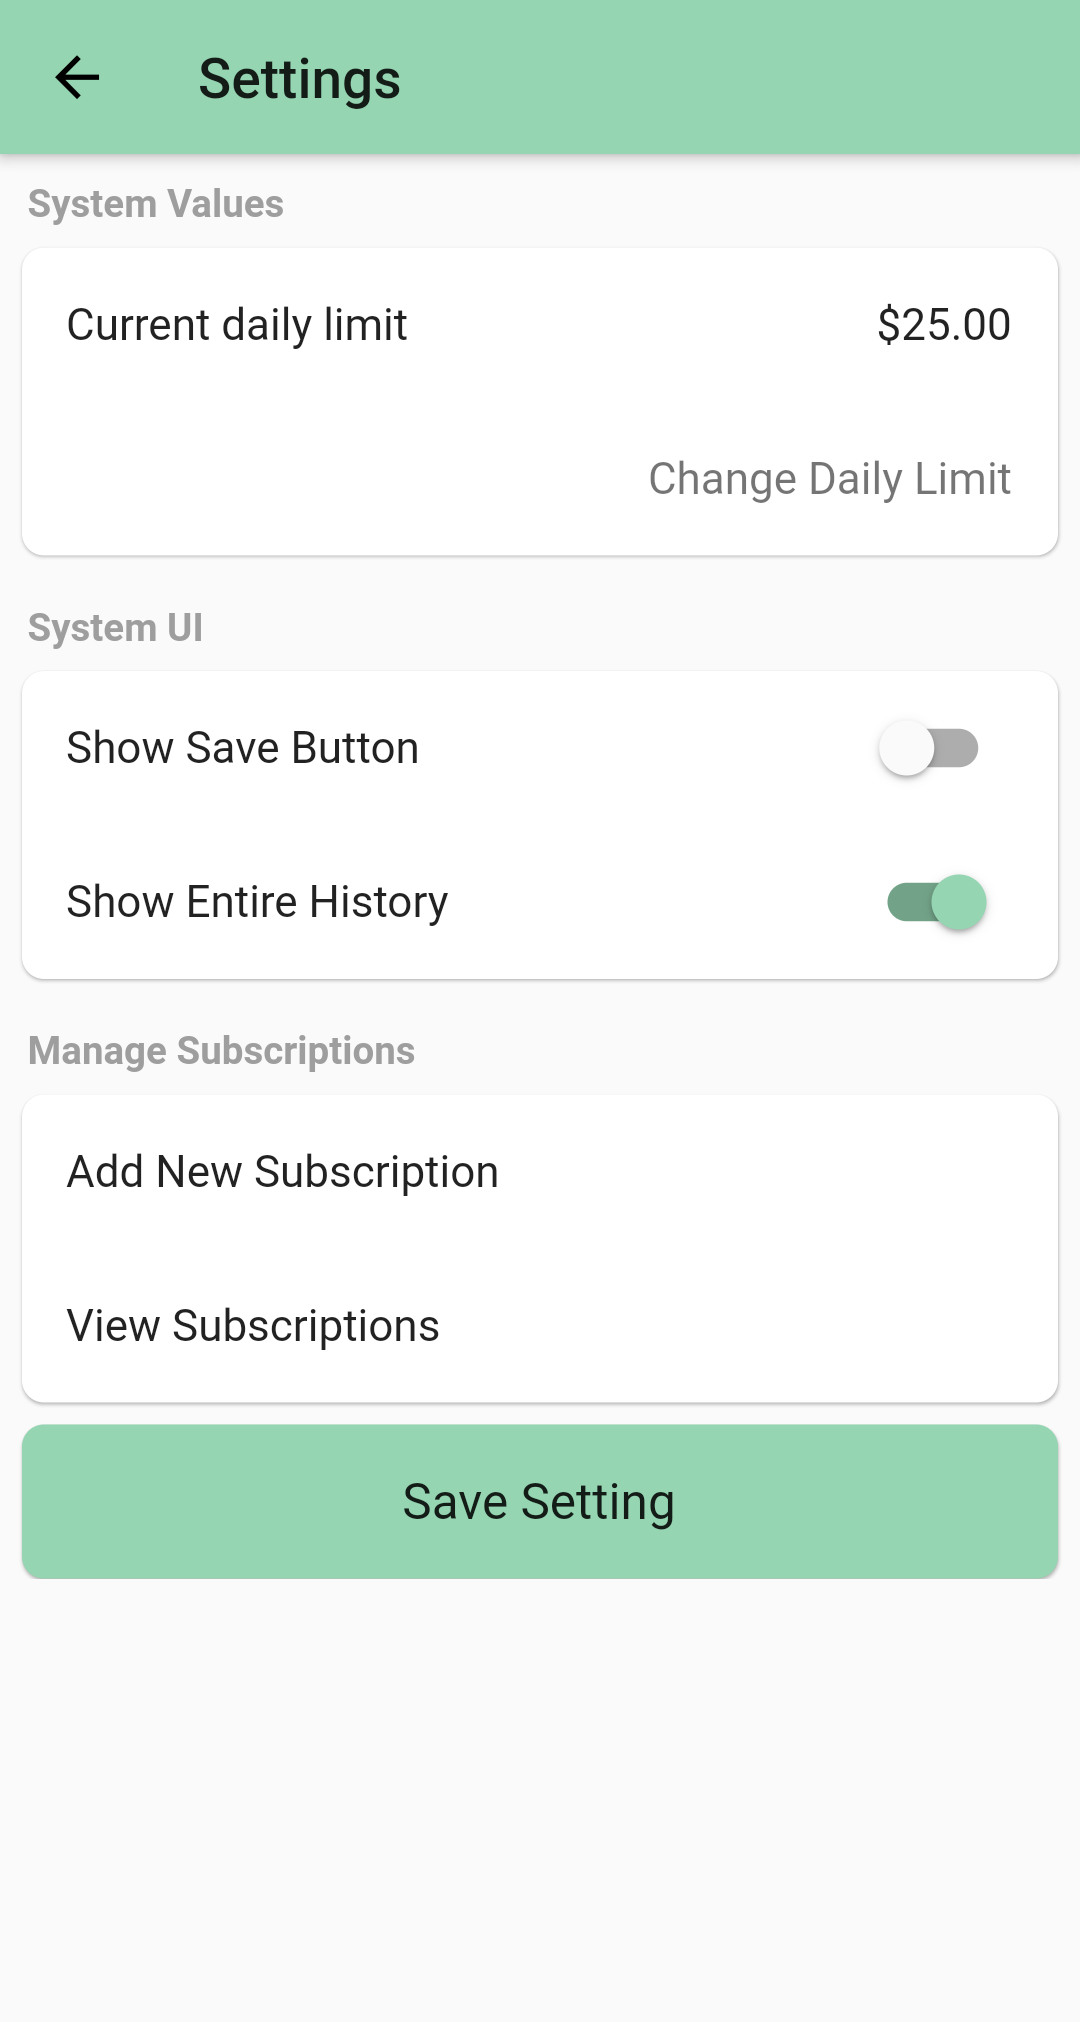
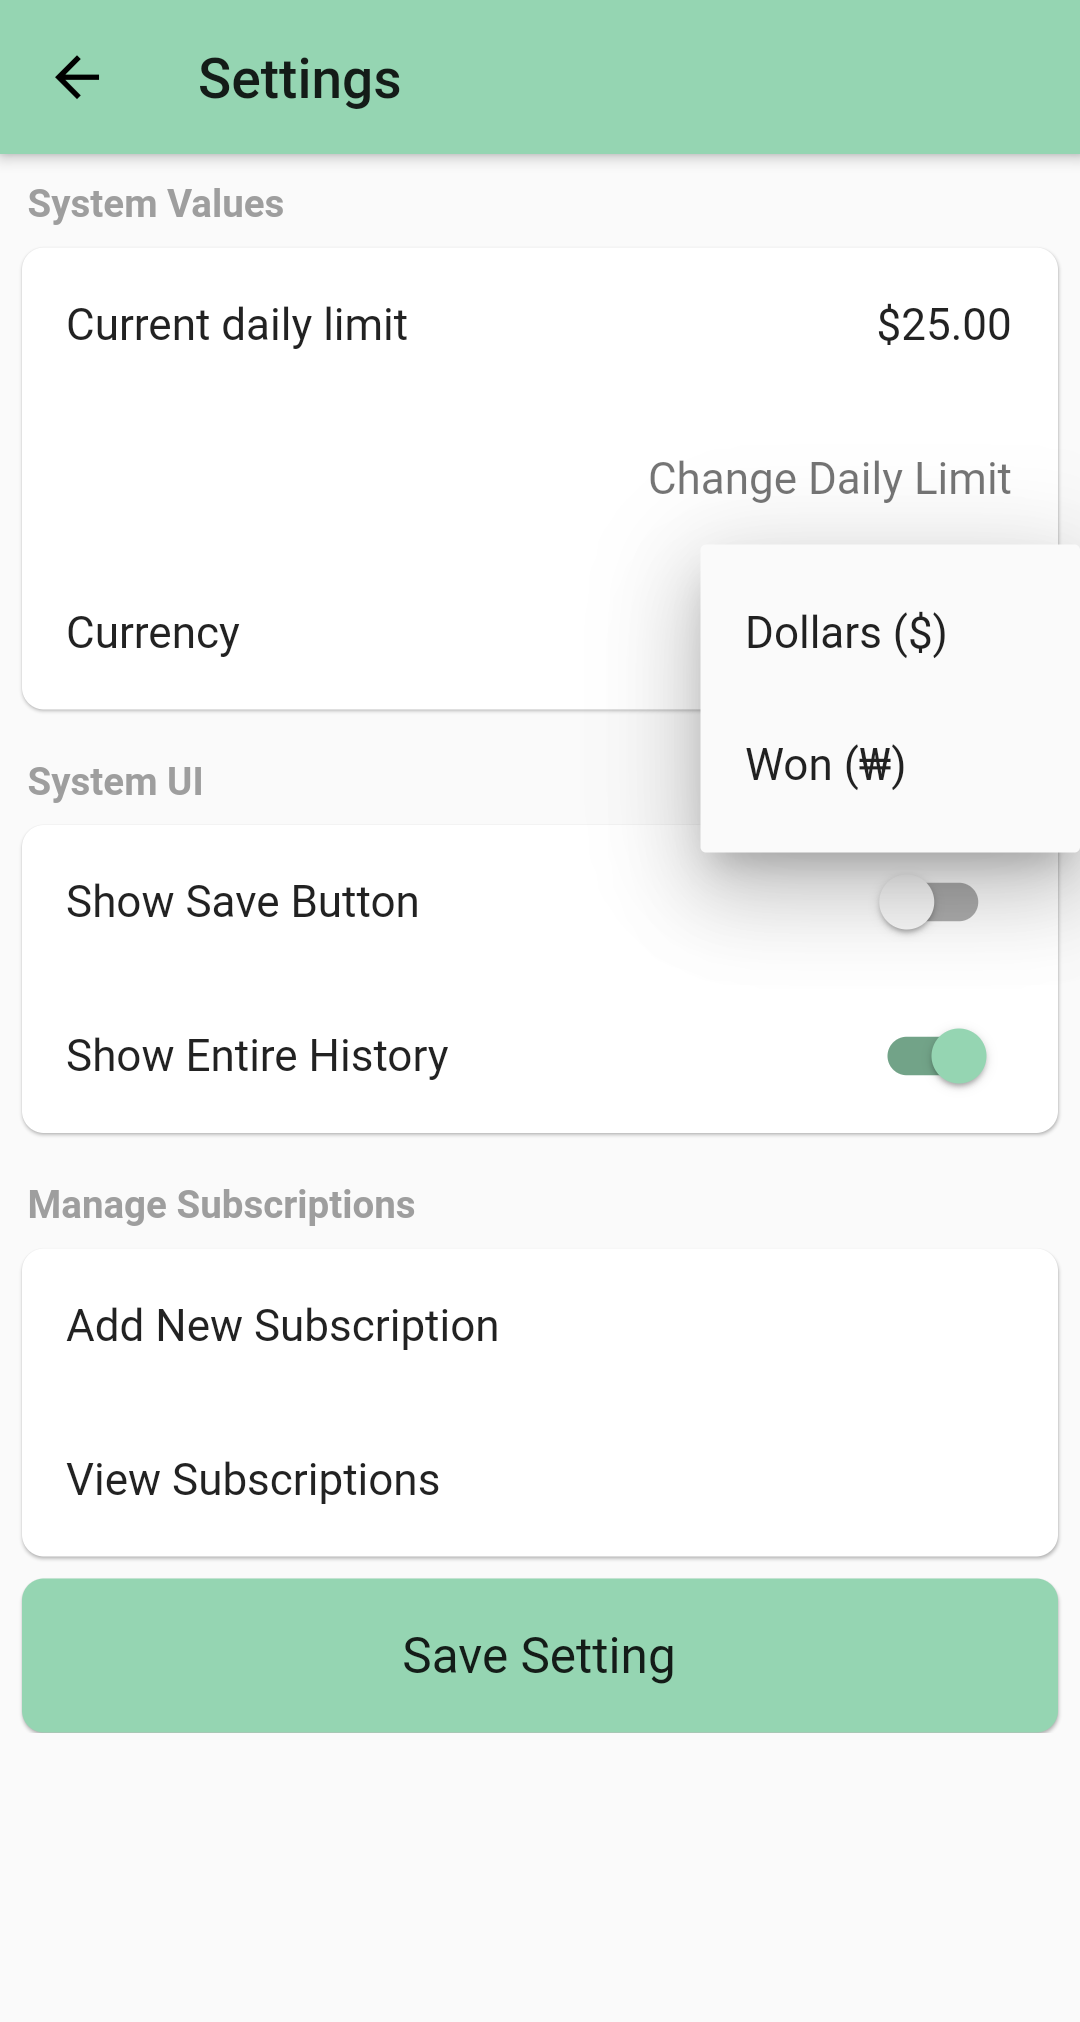
Added Support for KRW, Ver 1.0. Finished Development for now, unless any new ideas/bugs

diff --git a/README.md b/README.md
@@ -5,18 +5,21 @@
 
 Application for Tracking Daily Money Usage in hope of helping me save money, made with Flutter.
 [Available in Google Play Store](https://play.google.com/store/apps/details?id=com.kahluabear.money_tracker&ah=Q-xAfI_2q4fv8B5SXuzCaEp0gTk)
+
+### Devleopment Status
+I've added everything I wanted to add for my personal need which includes the functions and support for Dollars and Korean Won. If requested, I can add more currency, but unless I come up with more ideas on functionalities or find bugs while using it, the development will be on pause for now. 
+
 ## Basic Overview
 The Basic Idea is that you are able to decide how much you want to be using everyday on average, and the app will let you keep track of how much you've spent/saved daily and overall.
 
-<img src="https://github.com/jerichoi224/MoneyTracker/blob/master/media/screenshots1.jpeg">
-
 ### Basic Functionality
+<img src="https://github.com/jerichoi224/MoneyTracker/blob/master/media/screenshots1.jpeg">
 
 The three screenshots above show the basic functionality of the app. You Record your spendings, on the left. You can see how much you have left today and how much you've saved so far in the middle, and see all your previous spendings on the right. For hte Display portion, "Remaining Today" will show the value of the daily limit subtracted by the amount you've spent today. At midnight, whatever is remaining from the day will get added to the "Total Savings."
 
-<img src="https://github.com/jerichoi224/MoneyTracker/blob/master/media/screenshots2.jpeg">
 
 ### More Functionalities
+<img src="https://github.com/jerichoi224/MoneyTracker/blob/master/media/screenshots2.jpeg">
 
 The app includes a Splashscreen as well as a one-time intro screen that gives you a brief explaination and also lets you set the daily limit before actually starting the app.
 
